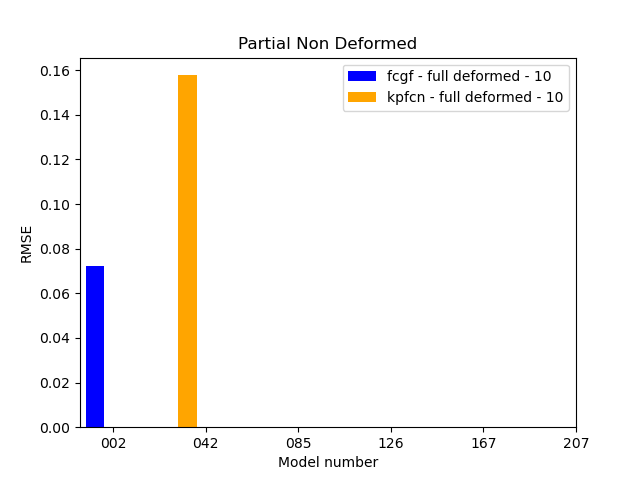
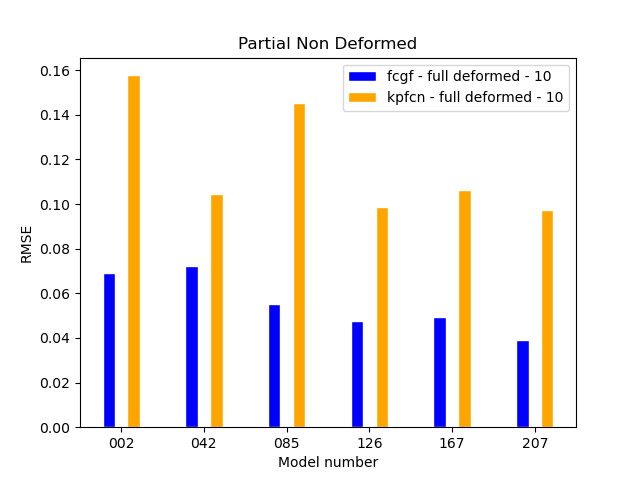
further increasing the confidence threshold

diff --git a/Testing/current_deformation/aggregate_data_all_weights_per_datatype.py b/Testing/current_deformation/aggregate_data_all_weights_per_datatype.py
@@ -240,6 +240,10 @@ for data_type in data_types:
 
                     legend.append(weights_legend)
                     data = get_data(data_type, feature_extractor, training_data_type, custom)
+
+                    if data == 'Does not exist':
+                        break
+
                     rmse = []             
                     for model_number in data:
                         rmse.append(float(data[model_number]['RMSE']))
@@ -263,5 +267,5 @@ for data_type in data_types:
     if with_custom is False:
         plt.savefig('Testing/current_deformation/per_data_type_' + data_type + '_pre_' + preprocessing_normal + '_knn_' + knn_matching  + conf_text + '_rmse.png')
     else:
-        plt.savefig('Testing/current_deformation/per_data_type_' + data_type + '_pre_' + preprocessing_custom + '_knn_' + knn_matching  + conf_text + '_rmse.png')
+        plt.savefig('Testing/current_deformation/per_data_type_' + data_type + '_pre_' + preprocessing_custom + '_knn_' + knn_matching  + conf_text + '_rmse_custom.png')
  

diff --git a/Testing/all/aggregate_data_all_weights_per_datatype.py b/Testing/all/aggregate_data_all_weights_per_datatype.py
@@ -43,8 +43,8 @@ weights = {
     }
 }
 
-knn_matching = 'False'
-# knn_matching = 'True'
+# knn_matching = 'False'
+knn_matching = 'True'
 
 number = 0
 adm = 2.0
